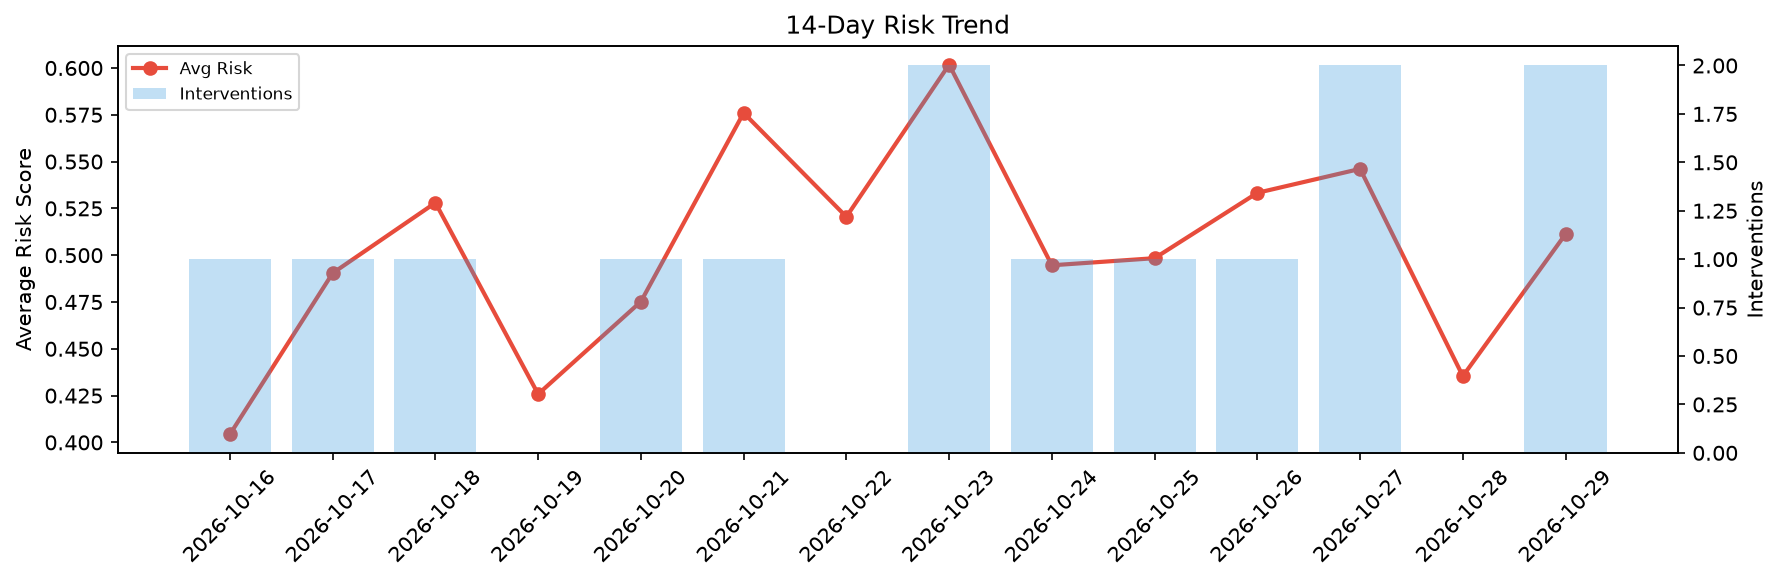
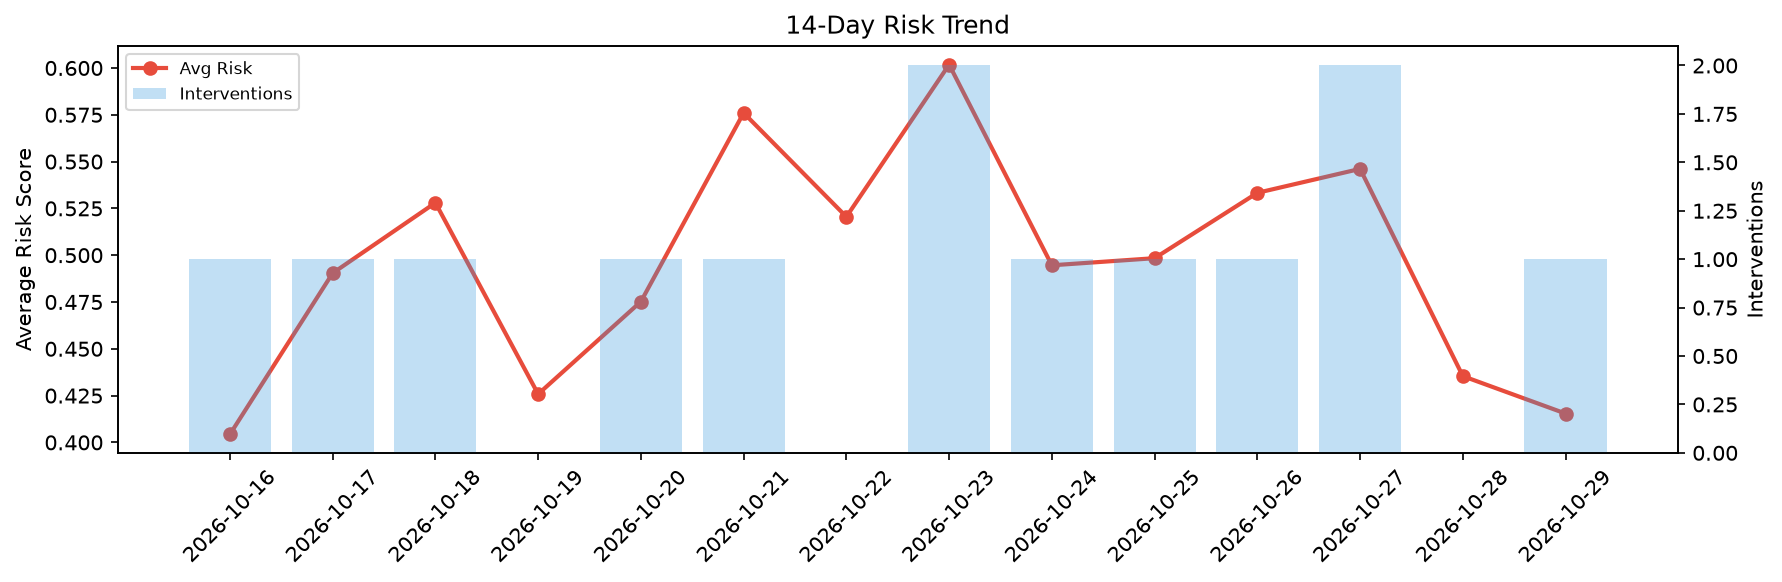
agent-improvement: daily cycle 2026-10-29T15:13

Changed region(s): [[0.8333, 0.0928, 0.9259, 0.5876], [0.8333, 0.6495, 0.8951, 0.7113]]

diff --git a/logs/2026-10-29.md b/logs/2026-10-29.md
@@ -1,6 +1,6 @@
 # Agent Improvement Report — 2026-10-29
 
-**Cycle ID:** `155aead9` | **Avg Risk:** 0.5113 | **Interventions:** 2/4
+**Cycle ID:** `66d8407f` | **Avg Risk:** 0.4154 | **Interventions:** 1/4
 
 ![Dashboard](2026-10-29_dashboard.png)
 
@@ -10,18 +10,18 @@
 
 | Domain | Risk Score | Decision | Alerts |
 |--------|-----------|----------|--------|
-| code_review | 0.6975 | intervene | duplication, coverage |
-| incident_response | 0.6243 | intervene | mttr |
-| data_pipeline | 0.5437 | monitor | volume_anomaly |
-| deployment | 0.1798 | monitor | none |
+| code_review | 0.1948 | monitor | none |
+| incident_response | 0.4654 | monitor | blast_radius |
+| data_pipeline | 0.3825 | monitor | none |
+| deployment | 0.619 | intervene | rollback_rate |
 
 ## Delta vs Yesterday
 
 | Domain | Today | Yesterday | Change |
 |--------|-------|-----------|--------|
-| code_review | 0.6975 | 0.2423 | 📈 187.9% |
-| incident_response | 0.6243 | 0.565 | 📈 10.5% |
-| data_pipeline | 0.5437 | 0.4826 | 📈 12.7% |
-| deployment | 0.1798 | 0.4519 | 📉 -60.2% |
+| code_review | 0.1948 | 0.2423 | 📉 -19.6% |
+| incident_response | 0.4654 | 0.565 | 📉 -17.6% |
+| data_pipeline | 0.3825 | 0.4826 | 📉 -20.7% |
+| deployment | 0.619 | 0.4519 | 📈 37.0% |
 
-**Refinement:** `{'adjustment': 'maintain', 'trend': 'improving', 'window': 4}`
+**Refinement:** `{'adjustment': 'tighten_thresholds', 'trend': 'degrading', 'window': 4}`
